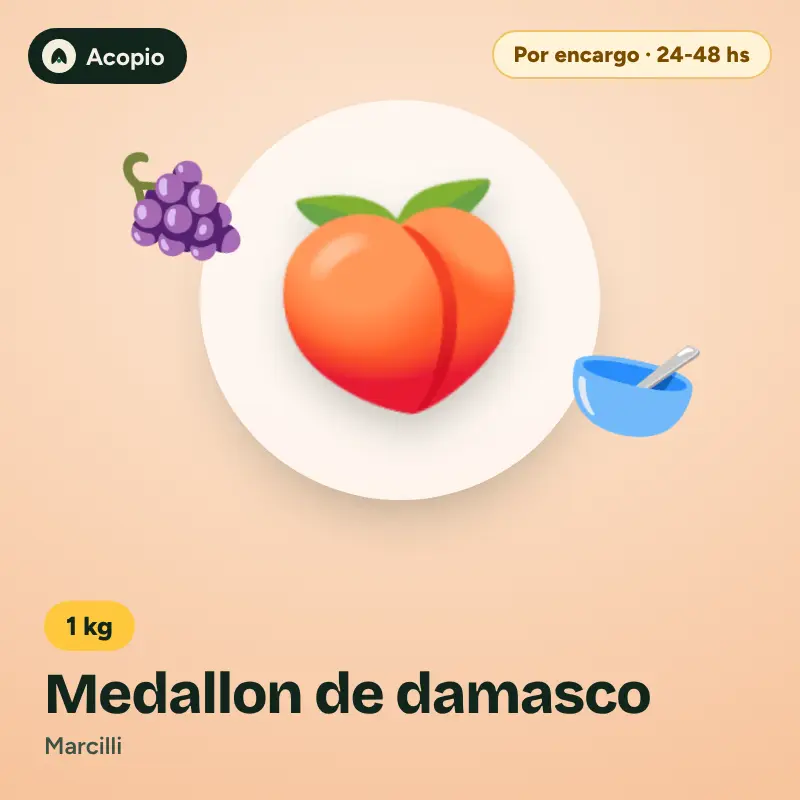
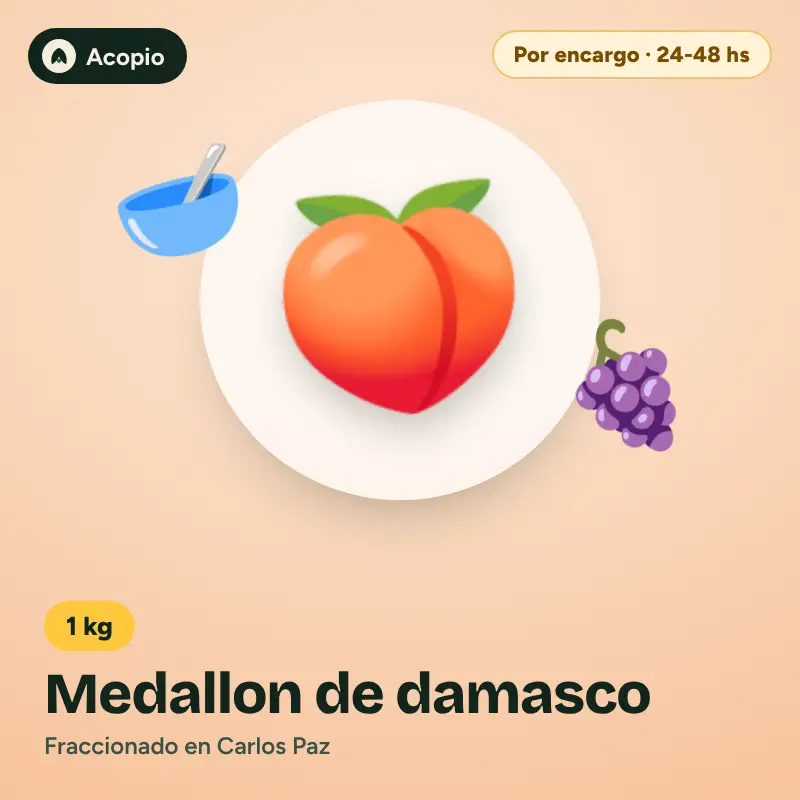
La marca Marcilli no aparece más: catálogo, filtros, textos y tarjetas
Claude-Session: https://claude.ai/code/session_01AdVG5TyZmaUrU68vAP2mxP

Changed region(s): [[0.125, 0.1562, 0.3125, 0.3438], [0.7188, 0.375, 0.875, 0.5625], [0.0625, 0.9062, 0.4062, 0.9688]]

diff --git a/src/lib/catalogo-encargo-lista.ts b/src/lib/catalogo-encargo-lista.ts
@@ -122,7 +122,7 @@ export const FILAS_LISTA: Fila[] = [
   ["LG-967024", "967-024", "Pasta de maní con stevia", "Entrenuts", "x 370 g", "Almacen", 370, "g", 3560, "Un básico de la alacena saludable."],
   ["LG-967026", "967-026", "Pasta de maní prot CC", "Entrenuts", "x 370 g", "Almacen", 370, "g", 4690, "Un básico de la alacena saludable."],
   ["LG-967025", "967-025", "Pasta de maní prot. SC", "Entrenuts", "x 370 g", "Almacen", 370, "g", 4690, "Un básico de la alacena saludable."],
-  ["LG-916010", "916-010", "Polen de flores", "Marcilli", "x 1 kg", "Almacen", 1000, "g", 29316, "Un básico de la alacena saludable."],
+  ["LG-916010", "916-010", "Polen de flores", "Sin marca / envasado", "x 1 kg", "Almacen", 1000, "g", 29316, "Un básico de la alacena saludable."],
   ["LG-958042", "958-042", "Postre de chocolate", "Trini", "x 60 g", "Almacen", 60, "g", 1972, "Un básico de la alacena saludable."],
   ["LG-014024", "014-024", "Propóleo puro", S, "x 125 cc", "Almacen", 125, "ml", 11896, "Un básico de la alacena saludable."],
   ["LG-905006", "905-006", "Propóleo tradicional", "Calandri", "x 180 cc", "Almacen", 180, "ml", 5925, "Un básico de la alacena saludable."],
@@ -261,8 +261,8 @@ export const FILAS_LISTA: Fila[] = [
   ["LG-983404", "983-404", "Yerba meona", S, "x 100 g", "Café, yerba e infusiones", 100, "g", 755, "Para el mate y las infusiones de todos los días."],
   ["LG-983529", "983-529", "Zarzaparrilla", S, "x 100 g", "Café, yerba e infusiones", 100, "g", 644, "Para el mate y las infusiones de todos los días."],
   ["LG-117006", "117-006", "Granola con chocolate", "Olimar", "x 1 kg", "Cereales y granolas", 1000, "g", 7875, "Para el desayuno."],
-  ["LG-916056", "916-056", "Granola económica", "Marcilli", "x 1 kg", "Cereales y granolas", 1000, "g", 6516, "Para el desayuno."],
-  ["LG-916050", "916-050", "Granola tropical", "Marcilli", "x 1 kg", "Cereales y granolas", 1000, "g", 7921, "Para el desayuno."],
+  ["LG-916056", "916-056", "Granola económica", "Sin marca / envasado", "x 1 kg", "Cereales y granolas", 1000, "g", 6516, "Para el desayuno."],
+  ["LG-916050", "916-050", "Granola tropical", "Sin marca / envasado", "x 1 kg", "Cereales y granolas", 1000, "g", 7921, "Para el desayuno."],
   ["LG-001293", "001-293", "Quinoa negra", S, "x 500 g", "Cereales y granolas", 500, "g", 3578, "Para el desayuno."],
   ["LG-001292", "001-292", "Quinoa roja", S, "x 500 g", "Cereales y granolas", 500, "g", 7371, "Para el desayuno."],
   ["LG-001261", "001-261", "Quinoa semilla", S, "x 500 g", "Cereales y granolas", 500, "g", 5690, "Para el desayuno."],
@@ -395,8 +395,8 @@ export const FILAS_LISTA: Fila[] = [
   ["LG-980007", "980-007", "Arándano rojo deshidratado partido", S, "x 250 g", "Frutas desecadas", 250, "g", 4433, "Fruta desecada para el desayuno, la merienda o la repostería."],
   ["LG-980008", "980-008", "Banana chips deshidratada", S, "x 500 g", "Frutas desecadas", 500, "g", 7435, "Fruta desecada para el desayuno, la merienda o la repostería."],
   ["LG-980033", "980-033", "Cerezas glaseadas verde", S, "x 500 g", "Frutas desecadas", 500, "g", 3150, "Fruta desecada para el desayuno, la merienda o la repostería."],
-  ["LG-916601", "916-601", "Ciruela con carozo chica", "Marcilli", "x 1 kg", "Frutas desecadas", 1000, "g", 10537, "Fruta desecada para el desayuno, la merienda o la repostería."],
-  ["LG-916600", "916-600", "Ciruela con carozo grande", "Marcilli", "x 1 kg", "Frutas desecadas", 1000, "g", 11221, "Fruta desecada para el desayuno, la merienda o la repostería."],
+  ["LG-916601", "916-601", "Ciruela con carozo chica", "Sin marca / envasado", "x 1 kg", "Frutas desecadas", 1000, "g", 10537, "Fruta desecada para el desayuno, la merienda o la repostería."],
+  ["LG-916600", "916-600", "Ciruela con carozo grande", "Sin marca / envasado", "x 1 kg", "Frutas desecadas", 1000, "g", 11221, "Fruta desecada para el desayuno, la merienda o la repostería."],
   ["LG-016004", "016-004", "Ciruelas sin carozo grandes", S, "x 500 g", "Frutas desecadas", 500, "g", 6780, "Fruta desecada para el desayuno, la merienda o la repostería."],
   ["LG-980010", "980-010", "Coco en cubos", S, "x 500 g", "Frutas desecadas", 500, "g", 6767, "Fruta desecada para el desayuno, la merienda o la repostería."],
   ["LG-009001", "009-001", "Cubos de fruta sabor ananá 4 col", S, "x 500 g", "Frutas desecadas", 500, "g", 5416, "Fruta desecada para el desayuno, la merienda o la repostería."],
@@ -405,18 +405,18 @@ export const FILAS_LISTA: Fila[] = [
   ["LG-009005", "009-005", "Cubos de fruta sabor mix patagonico", S, "x 500 g", "Frutas desecadas", 500, "g", 5416, "Fruta desecada para el desayuno, la merienda o la repostería."],
   ["LG-010026", "010-026", "Damasco con carozo", "Don José", "x 1 kg", "Frutas desecadas", 1000, "g", 10815, "Fruta desecada para el desayuno, la merienda o la repostería."],
   ["LG-980027", "980-027", "Egipto", "Datiles Con Carozo", "x 1 kg", "Frutas desecadas", 1000, "g", 8067, "Fruta desecada para el desayuno, la merienda o la repostería."],
-  ["LG-010013", "010-013", "Fruta mixta premium", "Marcilli", "x 1 kg", "Frutas desecadas", 1000, "g", 14800, "Fruta desecada para el desayuno, la merienda o la repostería."],
-  ["LG-010024", "010-024", "Higos tiernos", "Marcilli", "x 1 kg", "Frutas desecadas", 1000, "g", 15713, "Fruta desecada para el desayuno, la merienda o la repostería."],
+  ["LG-010013", "010-013", "Fruta mixta premium", "Sin marca / envasado", "x 1 kg", "Frutas desecadas", 1000, "g", 14800, "Fruta desecada para el desayuno, la merienda o la repostería."],
+  ["LG-010024", "010-024", "Higos tiernos", "Sin marca / envasado", "x 1 kg", "Frutas desecadas", 1000, "g", 15713, "Fruta desecada para el desayuno, la merienda o la repostería."],
   ["LG-980041", "980-041", "Jengibre en rodaja azucarado", S, "x 250 g", "Frutas desecadas", 250, "g", 4318, "Fruta desecada para el desayuno, la merienda o la repostería."],
   ["LG-980021", "980-021", "Kiwi en rodajas", S, "x 250 g", "Frutas desecadas", 250, "g", 4078, "Fruta desecada para el desayuno, la merienda o la repostería."],
   ["LG-980019", "980-019", "Mango en rodajas", S, "x 250 g", "Frutas desecadas", 250, "g", 6504, "Fruta desecada para el desayuno, la merienda o la repostería."],
   ["LG-980014", "980-014", "Manzana azucarada en cubos", S, "x 500 g", "Frutas desecadas", 500, "g", 5637, "Fruta desecada para el desayuno, la merienda o la repostería."],
-  ["LG-010014", "010-014", "Medallon de damasco", "Marcilli", "x 1 kg", "Frutas desecadas", 1000, "g", 13367, "Fruta desecada para el desayuno, la merienda o la repostería."],
-  ["LG-010016", "010-016", "Medallon de durazno", "Marcilli", "x 1 kg", "Frutas desecadas", 1000, "g", 15933, "Fruta desecada para el desayuno, la merienda o la repostería."],
+  ["LG-010014", "010-014", "Medallon de damasco", "Sin marca / envasado", "x 1 kg", "Frutas desecadas", 1000, "g", 13367, "Fruta desecada para el desayuno, la merienda o la repostería."],
+  ["LG-010016", "010-016", "Medallon de durazno", "Sin marca / envasado", "x 1 kg", "Frutas desecadas", 1000, "g", 15933, "Fruta desecada para el desayuno, la merienda o la repostería."],
   ["LG-980036", "980-036", "Melón en cubos", S, "x 500 g", "Frutas desecadas", 500, "g", 4669, "Fruta desecada para el desayuno, la merienda o la repostería."],
   ["LG-980015", "980-015", "Melón en rodajas", S, "x 250 g", "Frutas desecadas", 250, "g", 5001, "Fruta desecada para el desayuno, la merienda o la repostería."],
   ["LG-980005", "980-005", "Multicolor", "Anana En Cubos", "x 1 kg", "Frutas desecadas", 1000, "g", 17210, "Fruta desecada para el desayuno, la merienda o la repostería."],
-  ["LG-010018", "010-018", "Peras williams", "Marcilli", "x 1 kg", "Frutas desecadas", 1000, "g", 17378, "Fruta desecada para el desayuno, la merienda o la repostería."],
+  ["LG-010018", "010-018", "Peras williams", "Sin marca / envasado", "x 1 kg", "Frutas desecadas", 1000, "g", 17378, "Fruta desecada para el desayuno, la merienda o la repostería."],
   ["LG-980003", "980-003", "Rojos", "Anana En Cubos", "x 1 kg", "Frutas desecadas", 1000, "g", 17210, "Fruta desecada para el desayuno, la merienda o la repostería."],
   ["LG-980026", "980-026", "Turquia", "Damascos Secos N6", "x 1 kg", "Frutas desecadas", 1000, "g", 13915, "Fruta desecada para el desayuno, la merienda o la repostería."],
   ["LG-980004", "980-004", "Verde", "Anana En Cubos", "x 1 kg", "Frutas desecadas", 1000, "g", 17210, "Fruta desecada para el desayuno, la merienda o la repostería."],

diff --git a/src/lib/catalogo-proveedores.ts b/src/lib/catalogo-proveedores.ts
@@ -105,14 +105,14 @@ export const PRODUCTOS_PROVEEDORES: ProductoProveedor[] = [
   { codigo: "LG-LINO", codigoProveedor: "001-241", producto: "Semillas de lino", marca: SUELTO, presentacion: "x 1 kg", categoria: "Semillas y granos", contenido: 1000, unidad: "g", costo: 3791, pesoBrutoG: 1020 },
   { codigo: "LG-SAL", codigoProveedor: "005-108", producto: "Sal rosada del Himalaya fina", marca: SUELTO, presentacion: "x 1 kg", categoria: "Almacen", contenido: 1000, unidad: "g", costo: 3117, margen: 0.7, pesoBrutoG: 1020 },
   { codigo: "LG-MIEL", codigoProveedor: "119-002", producto: "Miel de abejas pura", marca: "Los Dos Zánganos", presentacion: "x 500 g", categoria: "Almacen", contenido: 500, unidad: "g", costo: 4455, margen: 0.6, pesoBrutoG: 720 },
-  { codigo: "LG-LENTEJA", codigoProveedor: "916-505", producto: "Lentejas especiales", marca: "Marcilli", presentacion: "x 400 g", categoria: "Legumbres", contenido: 400, unidad: "g", costo: 1074, margen: 0.8, pesoBrutoG: 410 },
-  { codigo: "LG-GARBANZO", codigoProveedor: "916-503", producto: "Garbanzos seleccionados", marca: "Marcilli", presentacion: "x 400 g", categoria: "Legumbres", contenido: 400, unidad: "g", costo: 606, margen: 0.9, pesoBrutoG: 410 },
+  { codigo: "LG-LENTEJA", codigoProveedor: "916-505", producto: "Lentejas especiales", marca: "Sin marca / envasado", presentacion: "x 400 g", categoria: "Legumbres", contenido: 400, unidad: "g", costo: 1074, margen: 0.8, pesoBrutoG: 410 },
+  { codigo: "LG-GARBANZO", codigoProveedor: "916-503", producto: "Garbanzos seleccionados", marca: "Sin marca / envasado", presentacion: "x 400 g", categoria: "Legumbres", contenido: 400, unidad: "g", costo: 606, margen: 0.9, pesoBrutoG: 410 },
   { codigo: "LG-PASASRUBIAS", codigoProveedor: "009-134", producto: "Pasas de uva rubias", marca: SUELTO, presentacion: "x 1 kg", categoria: "Frutas desecadas", contenido: 1000, unidad: "g", costo: 7650, margen: 0.6, pesoBrutoG: 1020 },
   // ——— La Granja del Centro, compra del 20/10/2026 (reemplaza a Todo Granolas) ———
-  { codigo: "LG-GTRAD", codigoProveedor: "916-053", producto: "Granola tradicional", marca: "Marcilli", presentacion: "x 1 kg", categoria: "Cereales y granolas", contenido: 1000, unidad: "g", costo: 6516, margen: 0.85, pesoBrutoG: 1020, porQueLoElegimos: "Avena, miel y frutos secos, crocante. De Marcilli, una marca que conocemos bien." },
+  { codigo: "LG-GTRAD", codigoProveedor: "916-053", producto: "Granola tradicional", marca: "Sin marca / envasado", presentacion: "x 1 kg", categoria: "Cereales y granolas", contenido: 1000, unidad: "g", costo: 6516, margen: 0.85, pesoBrutoG: 1020, porQueLoElegimos: "Avena, miel y frutos secos, crocante." },
   { codigo: "LG-GPMANI", codigoProveedor: "117-004", producto: "Granola con pasta de maní", marca: "Olimar", presentacion: "x 1 kg", categoria: "Cereales y granolas", contenido: 1000, unidad: "g", costo: 7650, margen: 0.715, pesoBrutoG: 1020 },
-  { codigo: "LG-GPROTE", codigoProveedor: "916-052", producto: "Granola proteica Sport", marca: "Marcilli", presentacion: "x 1 kg", categoria: "Cereales y granolas", contenido: 1000, unidad: "g", costo: 7673, margen: 0.71, pesoBrutoG: 1020, objetivos: ["gym"] },
-  { codigo: "LG-AVENA", codigoProveedor: "001-295", producto: "Avena arrollada fina", marca: "Marcilli", presentacion: "x 1 kg", categoria: "Cereales y granolas", contenido: 1000, unidad: "g", costo: 2380, margen: 0.75, pesoBrutoG: 1020, objetivos: ["gym"] },
+  { codigo: "LG-GPROTE", codigoProveedor: "916-052", producto: "Granola proteica Sport", marca: "Sin marca / envasado", presentacion: "x 1 kg", categoria: "Cereales y granolas", contenido: 1000, unidad: "g", costo: 7673, margen: 0.71, pesoBrutoG: 1020, objetivos: ["gym"] },
+  { codigo: "LG-AVENA", codigoProveedor: "001-295", producto: "Avena arrollada fina", marca: "Sin marca / envasado", presentacion: "x 1 kg", categoria: "Cereales y granolas", contenido: 1000, unidad: "g", costo: 2380, margen: 0.75, pesoBrutoG: 1020, objetivos: ["gym"] },
   { codigo: "LG-CACAO-250", codigoProveedor: "101-035", producto: "Cacao amargo especial", marca: "Alzol", presentacion: "x 250 g", categoria: "Almacen", contenido: 250, unidad: "g", costo: 2734, margen: 0.75, pesoBrutoG: 270, objetivos: ["gym"] },
   { codigo: "LG-ALMNP", codigoProveedor: "981-025", producto: "Almendras Non Pareil", marca: SUELTO, presentacion: "x 1 kg", categoria: "Frutos secos y mix", contenido: 1000, unidad: "g", costo: 29362, margen: 0.36, pesoBrutoG: 1020, porQueLoElegimos: "La almendra grande de California, pareja y crocante." },
   { codigo: "LG-ALMNP-500", codigoProveedor: "981-025", producto: "Almendras Non Pareil", marca: SUELTO, presentacion: "x 500 g", categoria: "Frutos secos y mix", contenido: 500, unidad: "g", costo: 14681, margen: 0.4, pesoBrutoG: 520, porQueLoElegimos: "La almendra grande de California, pareja y crocante. Medio kilo." },

diff --git a/src/lib/catalogo-encargo.ts b/src/lib/catalogo-encargo.ts
@@ -42,7 +42,7 @@ const FILAS_ELEGIDAS: Fila[] = [
   ["LG-MANGO-500", "980-042", "Mango en cubos", SUELTO, "x 500 g", "Frutas desecadas", 500, "g", kg(8001, 500), "Dulce y tierno: solo, en el yogur o en el mix."],
   ["LG-ANANA-500", "980-006", "Ananá en trozos", SUELTO, "x 500 g", "Frutas desecadas", 500, "g", kg(12333, 500), "Ananá deshidratado de colores: para el mix, la granola o la tabla."],
   ["LG-GOJI-250", "978-208", "Bayas de goji", SUELTO, "x 250 g", "Frutas desecadas", 250, "g", kg(20410, 250), "Ácidas y chiquitas: sobre el yogur, el açaí o la avena."],
-  ["LG-PELON-500", "010-021", "Pelones de durazno", "Marcilli", "x 500 g", "Frutas desecadas", 500, "g", kg(12481, 500), "Durazno sin carozo deshidratado: el postre de la abuela, con o sin hervir."],
+  ["LG-PELON-500", "010-021", "Pelones de durazno", "Sin marca / envasado", "x 500 g", "Frutas desecadas", 500, "g", kg(12481, 500), "Durazno sin carozo deshidratado: el postre de la abuela, con o sin hervir."],
   ["LG-COCOESC-250", "004-006", "Coco en escamas", SUELTO, "x 250 g", "Frutas desecadas", 250, "g", kg(14742, 250), "Escamas grandes de coco: tostadas 3 minutos en sartén, para bowls y granola."],
   ["LG-PAPAYA-500", "009-130", "Papaya en cubos de colores", SUELTO, "x 500 g", "Frutas desecadas", 500, "g", kg(8207, 500), "La fruta del pan dulce y del budín navideño."],
   ["LG-FRUTAESC-500", "009-117", "Fruta escurrida", SUELTO, "x 500 g", "Frutas desecadas", 500, "g", kg(5704, 500), "Fruta abrillantada surtida para pan dulce casero."],
@@ -60,8 +60,8 @@ const FILAS_ELEGIDAS: Fila[] = [
   // ——— Legumbres y granos para cocinar ———
   ["LG-ADUKI", "001-258", "Porotos aduki", SUELTO, "x 1 kg", "Legumbres", 1000, "g", kg(1870, 1000), "Poroto rojo chico de cocción rápida: guisos, hamburguesas y ensaladas."],
   ["LG-MUNG", "001-255", "Porotos mung", SUELTO, "x 1 kg", "Legumbres", 1000, "g", kg(2260, 1000), "Para germinar en casa o para un dal: se cocinan sin remojo largo."],
-  ["LG-ARVEJAS-400", "916-512", "Arvejas partidas", "Marcilli", "x 400 g", "Legumbres", 400, "g", 655, "Para el guiso y la sopa crema de invierno."],
-  ["LG-ALUBIA-400", "916-508", "Porotos alubia", "Marcilli", "x 400 g", "Legumbres", 400, "g", 1069, "El poroto blanco de la cazuela y el guiso de mondongo."],
+  ["LG-ARVEJAS-400", "916-512", "Arvejas partidas", "Sin marca / envasado", "x 400 g", "Legumbres", 400, "g", 655, "Para el guiso y la sopa crema de invierno."],
+  ["LG-ALUBIA-400", "916-508", "Porotos alubia", "Sin marca / envasado", "x 400 g", "Legumbres", 400, "g", 1069, "El poroto blanco de la cazuela y el guiso de mondongo."],
   ["LG-SOJATEX", "001-278", "Soja texturizada gruesa", SUELTO, "x 1 kg", "Legumbres", 1000, "g", kg(1547, 1000), "Hidratada en caldo, reemplaza la carne picada en salsas, empanadas y rellenos."],
   ["LG-BURGOL", "001-272", "Trigo burgol fino", SUELTO, "x 1 kg", "Cereales y granolas", 1000, "g", kg(2052, 1000), "Para tabule y kibbe: se hidrata en agua caliente, sin cocinar."],
 
@@ -108,7 +108,7 @@ const FILAS_ELEGIDAS: Fila[] = [
   ["LG-OLIVA-500", "935-002", "Aceite de oliva extra virgen", "Pisi", "x 500 cc", "Almacen", 500, "ml", 14293, "Oliva extra virgen de San Juan."],
   ["LG-MERM-FROJOS", "913-006", "Mermelada de frutos rojos con stevia", "Rincón de Vida", "x 400 g", "Almacen", 400, "g", 5267, "Endulzada con stevia, sin azúcar agregada."],
   ["LG-DDL-STEVIA", "958-006", "Dulce de leche con stevia", "Trini", "x 400 g", "Almacen", 400, "g", 6698, "Dulce de leche sin azúcar agregada."],
-  ["LG-STEVIA-250", "916-401", "Stevia líquida", "Marcilli", "x 250 cc", "Almacen", 250, "ml", 2495, "Unas gotas endulzan el mate o el café."],
+  ["LG-STEVIA-250", "916-401", "Stevia líquida", "Sin marca / envasado", "x 250 cc", "Almacen", 250, "ml", 2495, "Unas gotas endulzan el mate o el café."],
 
   // ——— Infusiones ———
   ["LG-TE-VERDE", "947-008", "Té verde", "Heredia", "x 25 saquitos", "Café, yerba e infusiones", 25, "g", 3943, "Té verde en saquitos de una marca serrana."],

diff --git a/src/lib/en-stock.ts b/src/lib/en-stock.ts
@@ -18,8 +18,8 @@ export const EN_STOCK: Item[] = [
   { id: "pasas", nombre: "Pasas de uva", busca: /^pasas/i, gancho: "negras y rubias, sin semilla" },
   { id: "datil", nombre: "Dátiles", busca: /d[aá]til/i, excluir: /mix|barra|alfajor/i, gancho: "con carozo, dulces y carnosos" },
   { id: "miel", nombre: "Miel", busca: /\bmiel\b/i, excluir: /granola|barra|alfajor|galle|mostaza/i, gancho: "pura, de Los Dos Zánganos" },
-  { id: "granola", nombre: "Granola", busca: /granola/i, marca: /marcilli|olimar/i, gancho: "para el desayuno" },
-  { id: "avena", nombre: "Avena", busca: /avena/i, excluir: /granola|barra|galle|bebida|leche/i, marca: /marcilli/i, gancho: "arrollada fina" },
+  { id: "granola", nombre: "Granola", busca: /granola/i, marca: /sin marca|olimar/i, gancho: "para el desayuno" },
+  { id: "avena", nombre: "Avena", busca: /avena/i, excluir: /granola|barra|galle|bebida|leche/i, marca: /sin marca/i, gancho: "arrollada fina" },
   { id: "cacao", nombre: "Cacao amargo", busca: /cacao/i, excluir: /granola|barra|alfajor|galle|mix/i, gancho: "para el licuado o la avena" },
   { id: "chia", nombre: "Chía", busca: /ch[ií]a/i, excluir: /mix|granola|barra|galle/i, gancho: "para el yogur" },
   { id: "girasol", nombre: "Girasol pelado", busca: /girasol/i, excluir: /mix|aceite|granola/i, gancho: "para ensaladas y picar" },

diff --git a/src/lib/precio-fijo.test.ts b/src/lib/precio-fijo.test.ts
@@ -13,3 +13,8 @@ test("precio único: hoy ningún combo (el Trío volvió a $22.000 por transfere
 test("la base del descuento suma todos los renglones cuando no hay combos de precio único", () => {
   assert.equal(baseTransferencia([{ comboSlug: "trio-de-frutos-secos", importe: 24000 }, { comboSlug: null, importe: 10000 }]), 34000);
 });
+
+test("la marca Marcilli no aparece en el catálogo (Santiago, 17/11)", async () => {
+  const { PRODUCTOS_PROVEEDORES } = await import("./catalogo-proveedores");
+  assert.doesNotMatch(JSON.stringify(PRODUCTOS_PROVEEDORES), /marcilli/i);
+});
